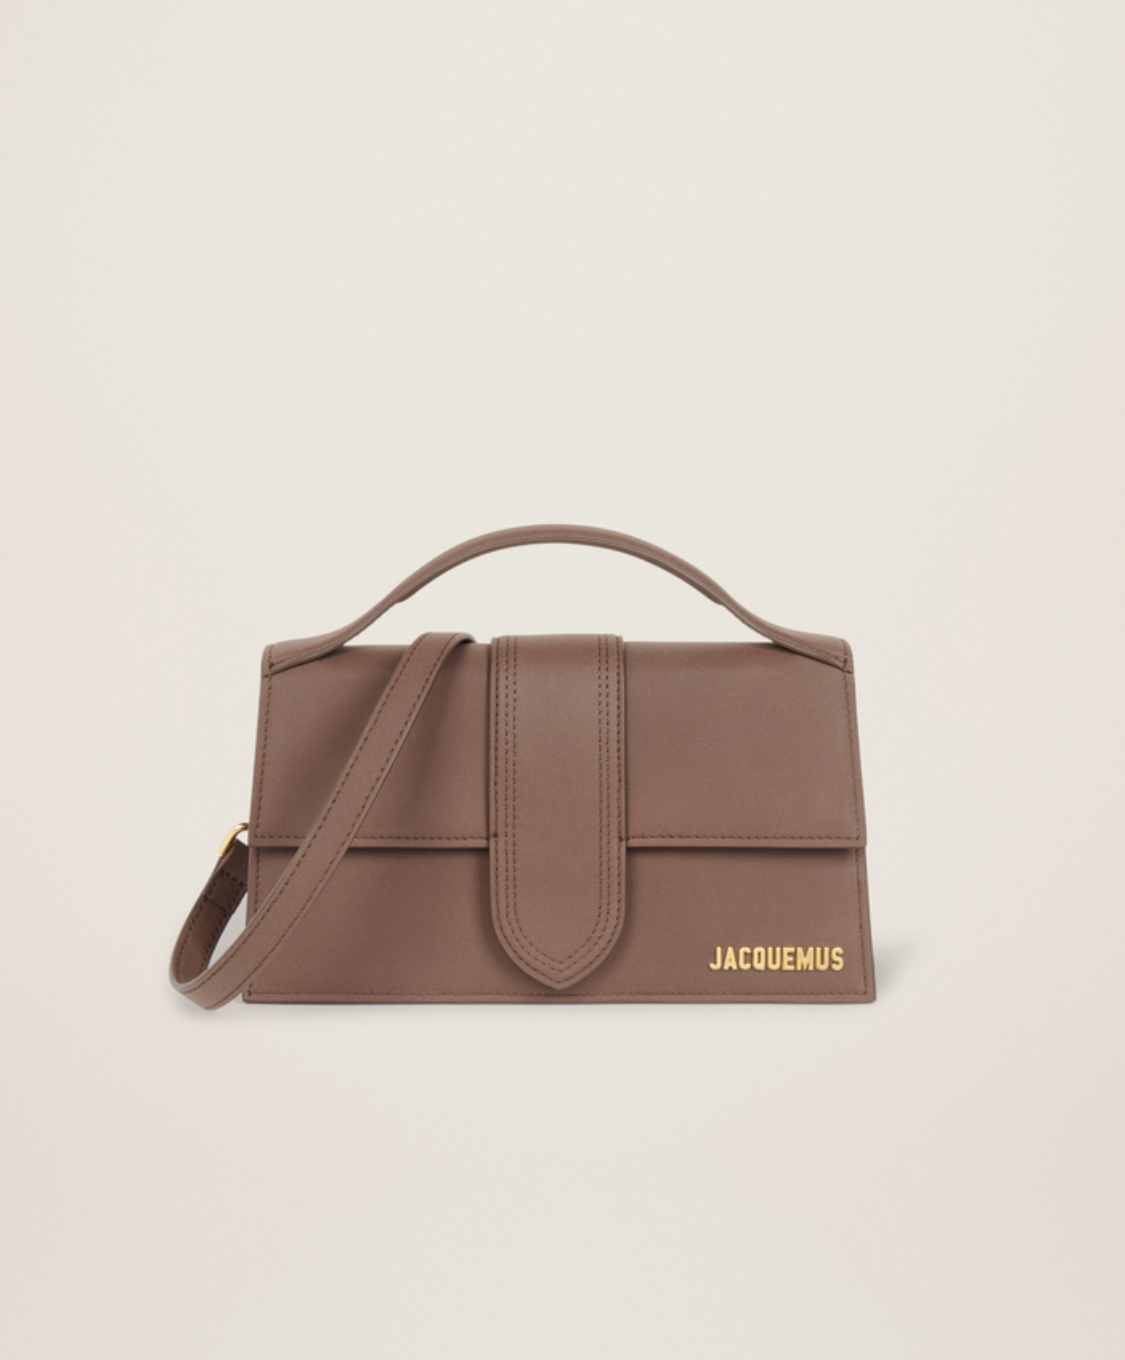
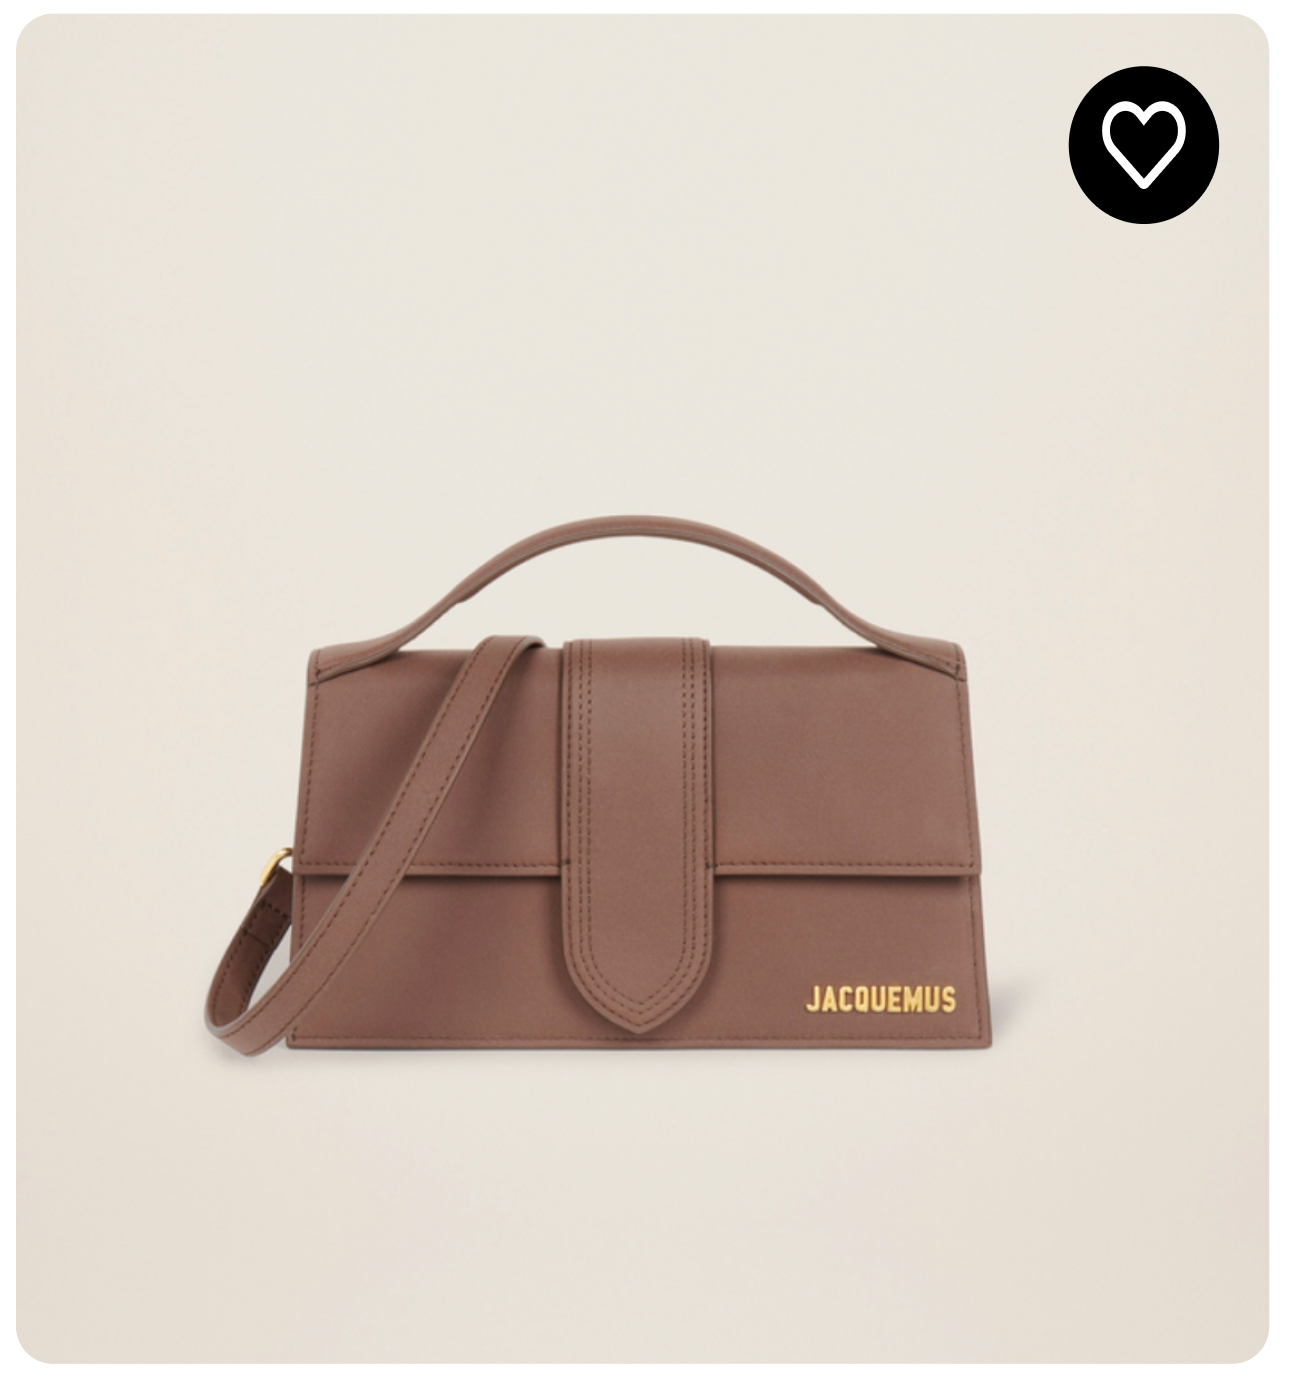
index design updated

Changed region(s): [[0.0, 0.0, 1.0, 1.0], [0.1556, 0.3706, 0.7778, 0.7721], [0.3111, 0.525, 0.3733, 0.5559]]

diff --git a/app/assets/stylesheets/components/_index.scss b/app/assets/stylesheets/components/_index.scss
@@ -4,3 +4,18 @@
 @import "form_legend_clear";
 @import "navbar";
 @import "bag_index";
+
+
+.content > h3 {
+  font-weight: bolder;
+  font-size: 13px;
+  line-height: 10px;
+  font-family: Arial, Helvetica, sans-serif;
+}
+
+.content > h4 {
+  font-size: 13px;
+  font-weight: lighter;
+  font-family: Arial, Helvetica, sans-serif;
+  line-height: 10px;
+}

diff --git a/db/seeds.rb b/db/seeds.rb
@@ -10,11 +10,11 @@ User.destroy_all
 
 user = User.create(email: "lolo@lolo.com", password: "123456")
 
-12.times do |i|
+12.times do
   Bag.create(
-    brand: "Bag #{i}",
-    category: ["big","small","baguette"].sample,
-    color: ["red","white","black","purple"].sample,
+    brand: ["Hermes","Chanel","Goyard", "Louis Vuitton", "Dior", "Gucci", "Jacquemus","Céline", "Chloé", "Zadig & Voltaire"].sample,
+    category: ["big","small","baguette", "hand bang", "chain bag", "saddle bag", "purse", "crossbody bag", "belt bag"].sample,
+    color: ["red", "white","black","purple", "blue", "green", "brown"].sample,
     user_id: user.id
   )
 end
